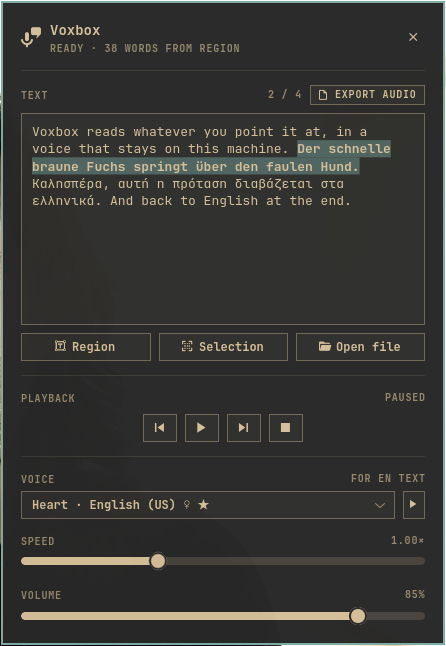
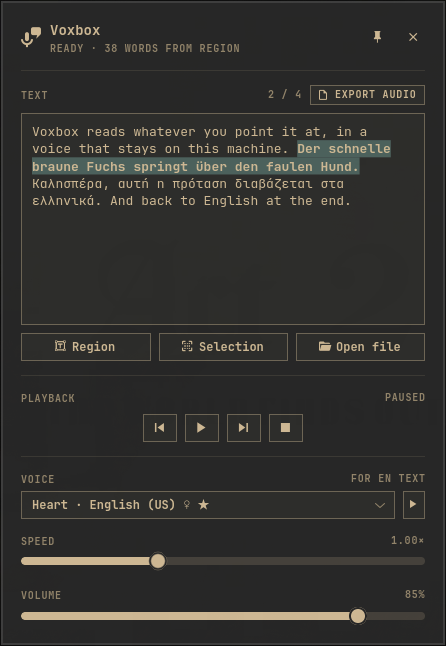
Pin-to-bar toggle in the app; refresh screenshot

Changed region(s): [[0.0, 0.0, 1.0, 1.0]]

diff --git a/app/voxbox.py b/app/voxbox.py
@@ -1483,7 +1483,30 @@ GLYPH = {
     "stop": "\U000F04DB", "close": "\U000F0156", "voice": "\U000F0033",
     "speed": "\U000F04C5", "volume": "\U000F057E",
     "open": "\U000F0770", "export": "\U000F0224",
+    "pin": "\U000F0403", "unpin": "\U000F0404",
 }
+
+PLUGIN_ID = "io.github.nousd.voxbox"
+
+
+def plugin_pin_state():
+    """None if the Omarchy shell plugin isn't available, else True/False for enabled."""
+    if not which("omarchy"):
+        return None
+    try:
+        out = subprocess.run(["omarchy", "plugin", "list", "--json"],
+                             capture_output=True, text=True, timeout=10).stdout
+        for plugin in json.loads(out):
+            if plugin.get("id") == PLUGIN_ID:
+                return bool(plugin.get("enabled"))
+    except Exception:
+        pass
+    return None
+
+
+def plugin_set_pinned(pinned):
+    subprocess.run(["omarchy", "plugin", "enable" if pinned else "disable", PLUGIN_ID],
+                   capture_output=True, timeout=15)
 
 
 def glyph_label(name, css="icon"):
@@ -1586,12 +1609,52 @@ class VoxboxWindow(Adw.ApplicationWindow):
         labels.append(self.meta)
         hero.append(labels)
 
+        self.pin_btn = icon_button("pin", tooltip="Pin Voxbox to the bar", classes=("action",))
+        self.pin_btn.remove_css_class("bordered")
+        self.pin_btn.set_valign(Gtk.Align.CENTER)
+        self.pin_btn.set_visible(False)
+        self.pin_btn.connect("clicked", lambda *_: self._toggle_pin())
+        hero.append(self.pin_btn)
+        self._pinned = None
+        threading.Thread(target=self._load_pin_state, daemon=True).start()
+
         close = icon_button("close", tooltip="Hide (Esc)", classes=("action",))
         close.remove_css_class("bordered")
         close.set_valign(Gtk.Align.CENTER)
         close.connect("clicked", lambda *_: self._hide())
         hero.append(close)
         return hero
+
+    def _load_pin_state(self):
+        state = plugin_pin_state()
+        GLib.idle_add(self._show_pin_state, state)
+
+    def _show_pin_state(self, state):
+        self._pinned = state
+        self.pin_btn.set_visible(state is not None)
+        if state is not None:
+            glyph = self.pin_btn.get_child().get_first_child()
+            glyph.set_label(GLYPH["unpin"] if state else GLYPH["pin"])
+            self.pin_btn.set_tooltip_text(
+                "Unpin Voxbox from the bar" if state else "Pin Voxbox to the bar")
+        return False
+
+    def _toggle_pin(self):
+        if self._pinned is None:
+            return
+        target = not self._pinned
+        self.pin_btn.set_sensitive(False)
+
+        def work():
+            try:
+                plugin_set_pinned(target)
+                state = plugin_pin_state()
+            except Exception:
+                state = self._pinned
+            GLib.idle_add(self._show_pin_state, state)
+            GLib.idle_add(self.pin_btn.set_sensitive, True)
+
+        threading.Thread(target=work, daemon=True).start()
 
     def _build_text_section(self):
         sp = self.sp
@@ -2154,7 +2217,224 @@ class VoxboxApp(Adw.Application):
             return False
 
 
+# --------------------------------------------------------------------------- daemon
+
+
+class Daemon:
+    """Headless mode for the Omarchy shell plugin: JSON lines on stdin/stdout.
+
+    in:  {"cmd": "load", "text": ...} | play | pause | toggle | stop
+         {"cmd": "jump", "delta": ±1} | {"cmd": "goto", "index": n}
+         region | selection | {"cmd": "open", "path"} | {"cmd": "export", "path"}
+         {"cmd": "set", "voice"|"speed"|"volume": value} | voices | status | quit
+    out: {"event": "ready"|"text"|"sentence"|"state"|"error"|"export"|"config", ...}
+    """
+
+    def __init__(self):
+        self.cfg = load_config()
+        self.player = Player(self._on_sentence, self._on_state, self._on_error)
+        self.player.volume = float(self.cfg["volume"])
+        self.player.speed = float(self.cfg["speed"])
+        self.player.voice = self.cfg["voice"] if self.cfg["voice"] in VOICE_INFO else DEFAULTS["voice"]
+        self.player.lang_voices = {k: v for k, v in self.cfg.get("voices_by_lang", {}).items() if v in VOICE_INFO}
+        self._sentences = []
+        self._text = ""
+        self._source = ""
+        self.loop = GLib.MainLoop()
+
+    # -- output -------------------------------------------------------------
+
+    def emit(self, **payload):
+        sys.stdout.write(json.dumps(payload, ensure_ascii=False) + "\n")
+        sys.stdout.flush()
+
+    def _on_sentence(self, idx):
+        self.emit(event="sentence", index=idx, total=len(self._sentences),
+                  lang=self.player.lang_of(idx))
+        return False
+
+    def _on_state(self, playing, finished):
+        self.emit(event="state", playing=bool(playing), finished=bool(finished),
+                  index=self.player.index, total=len(self._sentences))
+        return False
+
+    def _on_error(self, message):
+        self.emit(event="error", message=str(message))
+        return False
+
+    # -- commands -----------------------------------------------------------
+
+    def _send_text(self):
+        self.emit(event="text", text=self._text, sentences=self._sentences,
+                  source=self._source, words=len(self._text.split()))
+
+    def load(self, text, source="", autoplay=True):
+        self._text = clean_text(text)
+        self._source = source
+        self._sentences = split_sentences(self._text)
+        self.player.load(self._sentences)
+        self._send_text()
+        if autoplay and self._sentences:
+            self.player.play()
+
+    def handle(self, msg):
+        cmd = msg.get("cmd")
+        if cmd == "load":
+            self.load(msg.get("text", ""), msg.get("source", ""), msg.get("autoplay", True))
+        elif cmd in ("play", "pause", "toggle", "stop"):
+            getattr(self.player, cmd)()
+        elif cmd == "jump":
+            self.player.jump(int(msg.get("delta", 1)))
+        elif cmd == "goto":
+            self.player.goto(int(msg.get("index", 0)))
+        elif cmd == "region":
+            self.player.pause()
+            threading.Thread(target=self._region, daemon=True).start()
+        elif cmd == "selection":
+            text = capture_selection()
+            if text:
+                self.load(text, "selection")
+            else:
+                self.emit(event="error", message="nothing selected")
+        elif cmd == "open":
+            threading.Thread(target=self._open, args=(msg.get("path", ""),), daemon=True).start()
+        elif cmd == "export":
+            threading.Thread(target=self._export, args=(msg.get("path", ""),), daemon=True).start()
+        elif cmd == "preview":
+            threading.Thread(target=self._preview, args=(msg.get("voice", ""),), daemon=True).start()
+        elif cmd == "set":
+            self._set(msg)
+        elif cmd == "voices":
+            self.emit(event="voices", voices=[
+                {"id": vid, "label": lbl, "iso": iso} for vid, lbl, iso, _e, _l in VOICES
+            ])
+        elif cmd == "status":
+            self._send_text()
+            self._on_state(self.player.playing, False)
+            self.emit(event="config", voice=self.player.voice, speed=self.player.speed,
+                      volume=self.player.volume)
+        elif cmd == "quit":
+            self.loop.quit()
+        else:
+            self.emit(event="error", message=f"unknown cmd: {cmd!r}")
+
+    def _set(self, msg):
+        if "voice" in msg and msg["voice"] in VOICE_INFO:
+            vid = msg["voice"]
+            self.player.voice = vid
+            self.cfg["voice"] = vid
+            self.cfg.setdefault("voices_by_lang", {})[voice_iso(vid)] = vid
+            self.player.lang_voices[voice_iso(vid)] = vid
+            self.player.restart_from(self.player.index)
+        if "speed" in msg:
+            self.player.speed = self.cfg["speed"] = round(float(msg["speed"]), 2)
+            self.player.restart_from(self.player.index)
+        if "volume" in msg:
+            self.player.volume = float(msg["volume"])
+            self.cfg["volume"] = round(self.player.volume, 3)
+        save_config(self.cfg)
+        self.emit(event="config", voice=self.player.voice, speed=self.player.speed,
+                  volume=self.player.volume)
+
+    def _region(self):
+        try:
+            text = capture_region(self.cfg.get("ocr_langs", "eng"), self._ocr_isos())
+        except Exception as exc:
+            GLib.idle_add(self.emit_error_idle, f"capture failed: {exc}")
+            return
+        GLib.idle_add(self._region_done, text)
+
+    def emit_error_idle(self, message):
+        self.emit(event="error", message=message)
+        return False
+
+    def _region_done(self, text):
+        if text is None:
+            self.emit(event="cancelled")
+        elif not text.strip():
+            self.emit(event="error", message="no text in that box")
+        else:
+            self.load(text, "region")
+        return False
+
+    def _ocr_isos(self):
+        isos = [voice_iso(self.player.voice)]
+        isos += [i for i in self.cfg.get("voices_by_lang", {}) if i not in isos]
+        return isos[:6]
+
+    def _open(self, path):
+        try:
+            text = open_document(path)
+        except Exception as exc:
+            GLib.idle_add(self.emit_error_idle, f"open failed: {exc}")
+            return
+        if text.strip():
+            GLib.idle_add(lambda: (self.load(text, Path(path).name), False)[1])
+        else:
+            GLib.idle_add(self.emit_error_idle, "no readable text in file")
+
+    def _export(self, path):
+        if not self._text.strip():
+            GLib.idle_add(self.emit_error_idle, "nothing to export")
+            return
+        if Path(path).suffix == "":
+            path += ".mp3"
+        try:
+            samples = synthesize_all(
+                self._text, self.player.voice, dict(self.player.lang_voices), self.player.speed,
+                on_progress=lambda i, n: GLib.idle_add(
+                    lambda: (self.emit(event="export", progress=f"{i}/{n}"), False)[1]),
+            )
+            encode_audio(samples, path, self.player.volume)
+        except Exception as exc:
+            GLib.idle_add(self.emit_error_idle, f"export failed: {exc}")
+        else:
+            GLib.idle_add(lambda: (self.emit(event="export", done=True, path=path), False)[1])
+
+    def _preview(self, vid):
+        if vid not in VOICE_INFO:
+            return
+        info = VOICE_INFO[vid]
+        line = PREVIEW_LINES.get(info["iso"], PREVIEW_LINES["en"])
+        try:
+            samples = ENGINES[info["engine"]].synth(line, vid, self.player.speed, info["engine_lang"])
+            GLib.idle_add(lambda: (self.player.preview(samples), False)[1])
+        except Exception as exc:
+            GLib.idle_add(self.emit_error_idle, str(exc))
+
+    # -- stdin --------------------------------------------------------------
+
+    def _on_stdin(self, channel, condition):
+        if condition & GLib.IOCondition.HUP:
+            self.loop.quit()
+            return False
+        line = channel.readline()
+        if not line:
+            self.loop.quit()
+            return False
+        line = line.strip()
+        if line:
+            try:
+                self.handle(json.loads(line))
+            except Exception as exc:
+                self.emit(event="error", message=f"bad command: {exc}")
+        return True
+
+    def run(self):
+        channel = GLib.IOChannel.unix_new(sys.stdin.fileno())
+        GLib.io_add_watch(channel, GLib.PRIORITY_DEFAULT,
+                          GLib.IOCondition.IN | GLib.IOCondition.HUP, self._on_stdin)
+        self.emit(event="ready", voices=[{"id": v, "label": i["label"], "iso": i["iso"]}
+                                         for v, i in VOICE_INFO.items()],
+                  voice=self.player.voice, speed=self.player.speed, volume=self.player.volume,
+                  languages=sorted(AVAILABLE_LANGS))
+        self.loop.run()
+        return 0
+
+
 def main():
+    if len(sys.argv) > 1 and sys.argv[1] == "daemon":
+        return Daemon().run()
     if len(sys.argv) > 1 and sys.argv[1] == "theme":
         THEME.refresh()
         print(THEME.css() or "/* no Omarchy theme found */")
